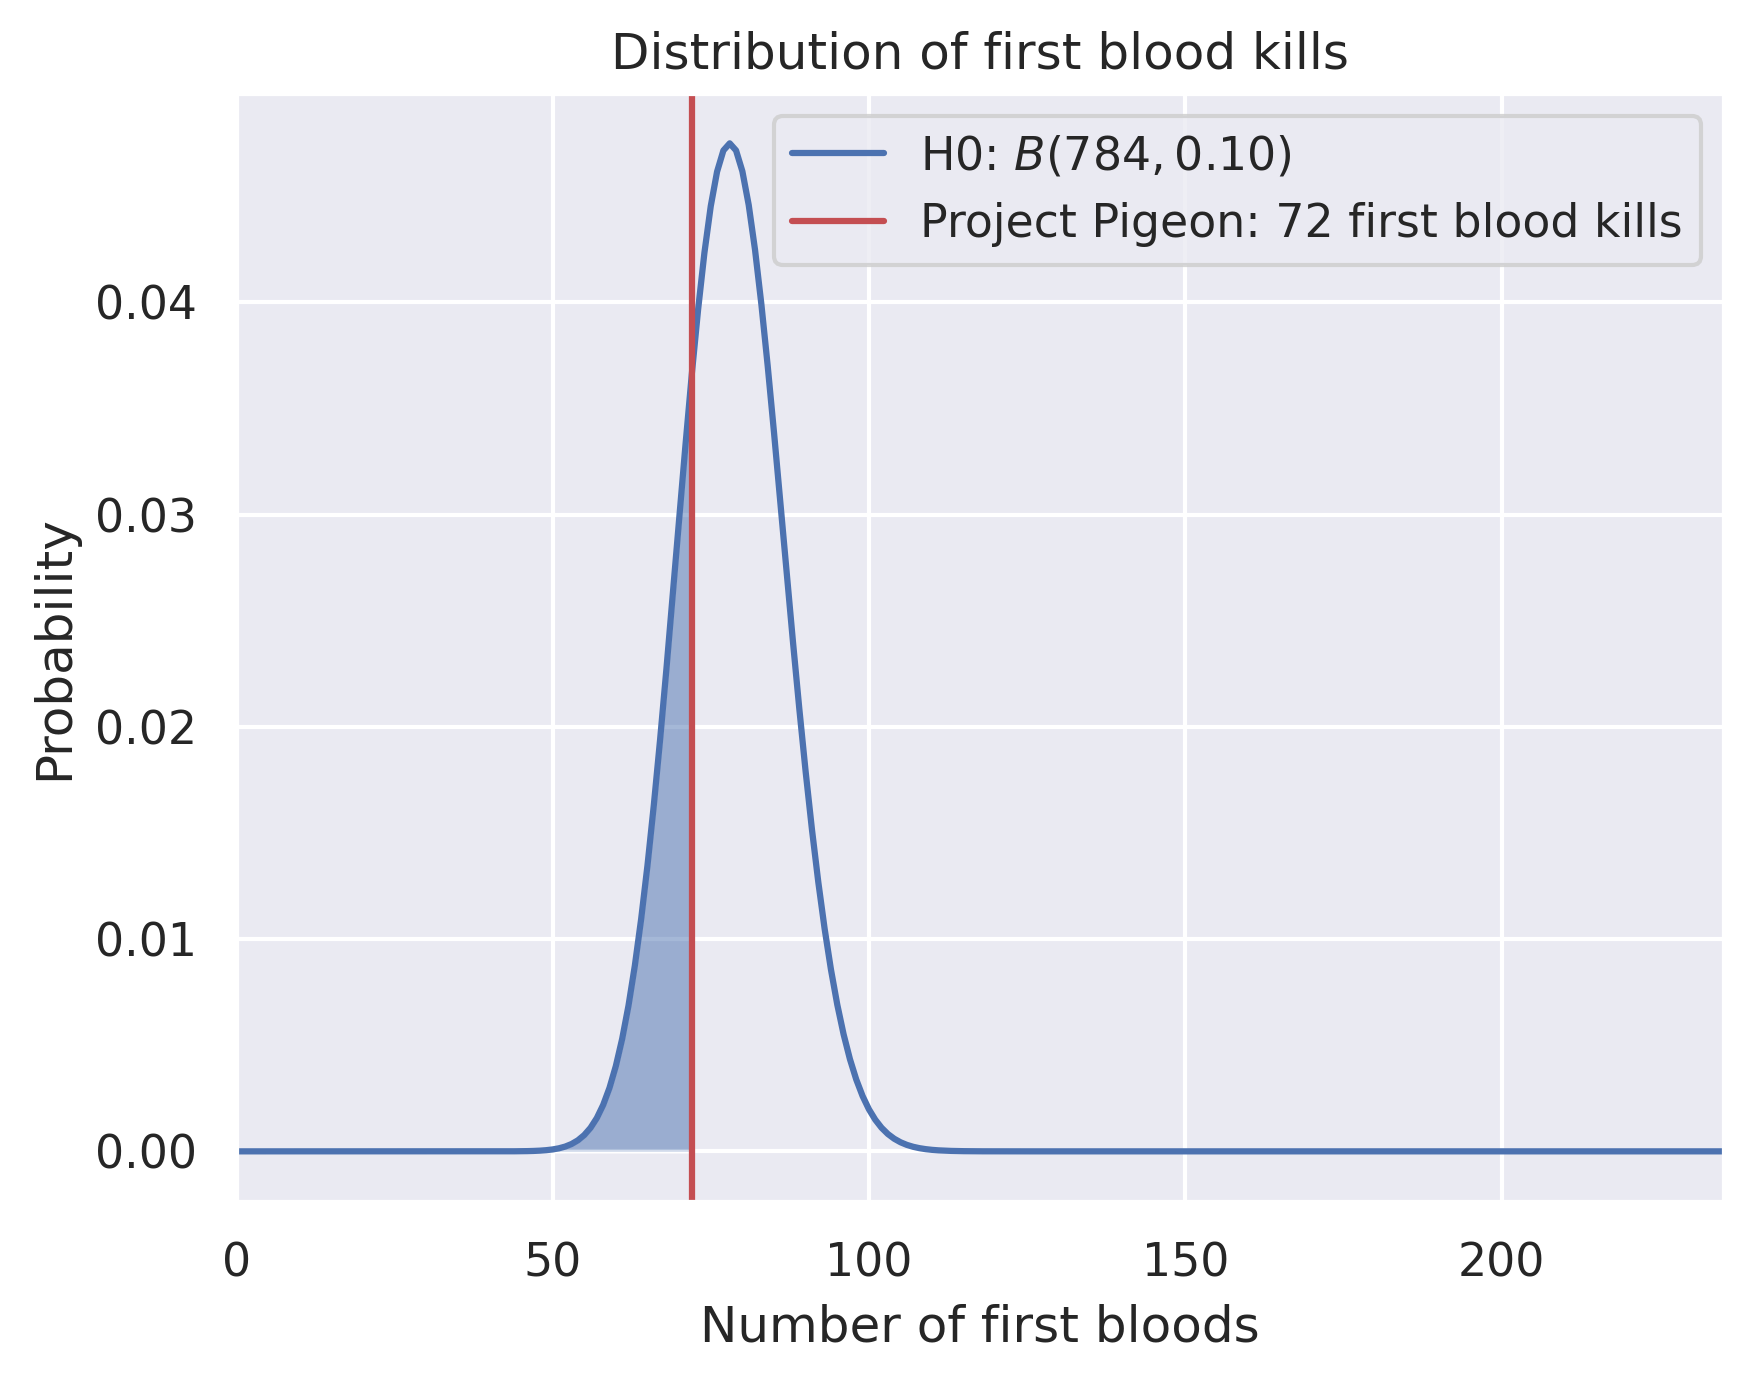
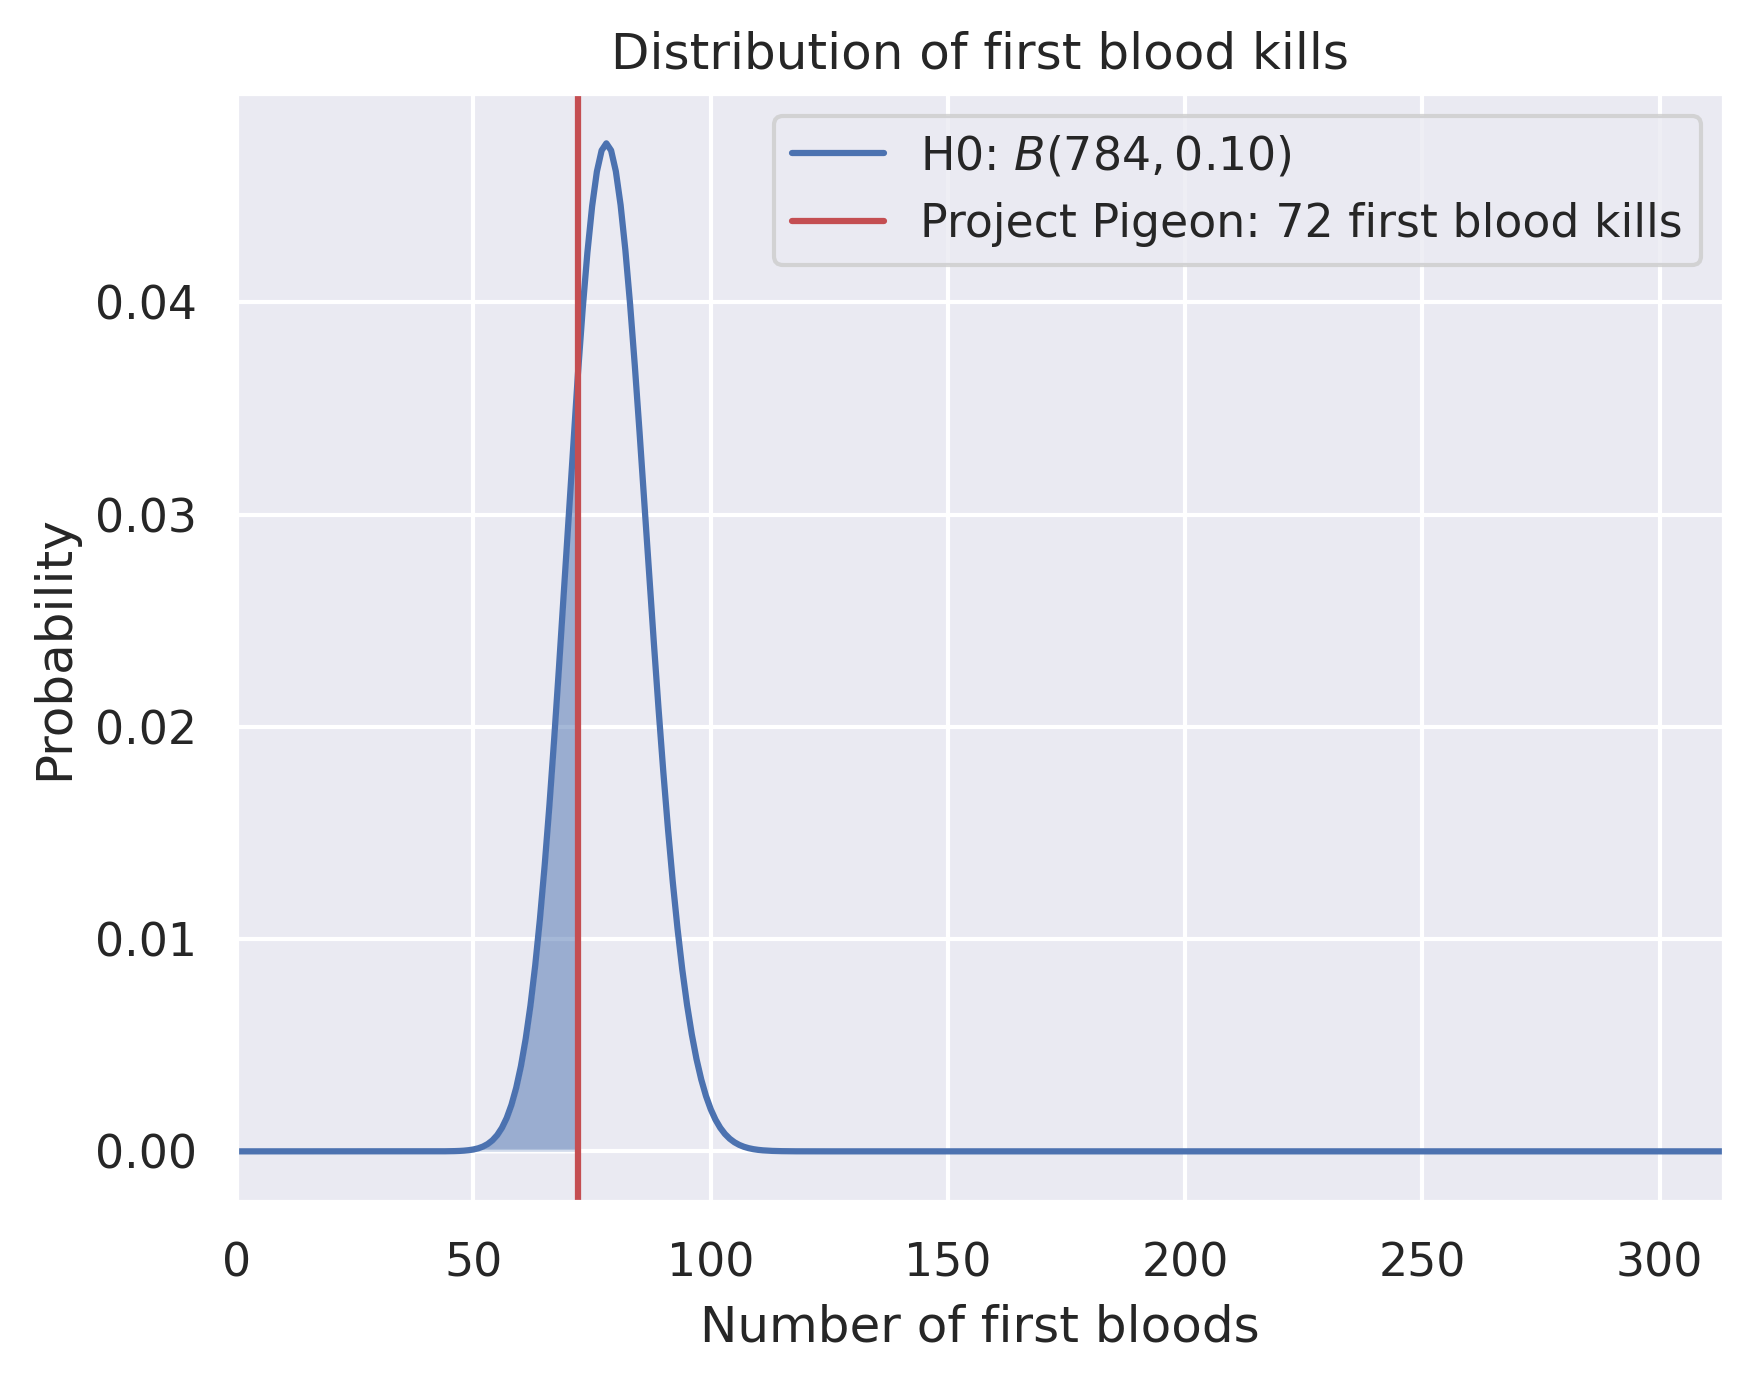
Nicer plots

diff --git a/scripts/generate_readme.py b/scripts/generate_readme.py
@@ -38,12 +38,13 @@ def main():
         else:
             readme += '**not first blood king :-(**\n\n'
         readme += (f"{summoner} has {summoner_data['n_first_bloods']:d} "
-                   f"first bloods in {summoner_data['n_matches']:d} games. "
+                   f"first bloods in {summoner_data['n_matches']:d} games (= "
+                   f"{summoner_data['first_blood_ratio'] * 100:.1f}%). "
                    f"Assuming a binomial distribution with parameters ``p = "
                    f"{metadata['p_binom']:.2f}`` and ``n = "
                    f"{summoner_data['n_matches']:d}`` as null hypothesis, "
                    f"the corresponding p value is ``p = "
-                   f"{summoner_data['p_value']:e}``.\n\n\n")
+                   f"{summoner_data['p_value']:.6f}``.\n\n\n")
 
     # Finalize
     now = datetime.datetime.utcnow().strftime("%Y-%m-%d %H:%M:%S")

diff --git a/scripts/analyze_data.py b/scripts/analyze_data.py
@@ -44,7 +44,7 @@ def plot_distribution(summoner, n_first_bloods, n_matches, p_value, config):
     plt.fill_between(x, 0.0, y, where=x <= n_first_bloods, alpha=0.5)
     plt.xlabel('Number of first bloods')
     plt.ylabel('Probability')
-    plt.xlim(0.0, 3.0 * PROB_BINOM * n_matches)
+    plt.xlim(0.0, 4.0 * PROB_BINOM * n_matches)
     plt.title("Distribution of first blood kills")
     plt.legend(loc='upper right')
 

diff --git a/README.md b/README.md
@@ -9,7 +9,7 @@ Captain KrümeI
 
 **not first blood king :-(**
 
-Captain KrümeI has 14 first bloods in 257 games. Assuming a binomial distribution with parameters ``p = 0.10`` and ``n = 257`` as null hypothesis, the corresponding p value is ``p = 9.968739e-01``.
+Captain KrümeI has 14 first bloods in 257 games (= 5.4%). Assuming a binomial distribution with parameters ``p = 0.10`` and ``n = 257`` as null hypothesis, the corresponding p value is ``p = 0.996874``.
 
 
 Demon4rK
@@ -19,7 +19,7 @@ Demon4rK
 
 **not first blood king :-(**
 
-Demon4rK has 59 first bloods in 720 games. Assuming a binomial distribution with parameters ``p = 0.10`` and ``n = 720`` as null hypothesis, the corresponding p value is ``p = 9.564178e-01``.
+Demon4rK has 59 first bloods in 720 games (= 8.2%). Assuming a binomial distribution with parameters ``p = 0.10`` and ``n = 720`` as null hypothesis, the corresponding p value is ``p = 0.956418``.
 
 
 F1rst Blood K1ng
@@ -29,7 +29,7 @@ F1rst Blood K1ng
 
 **FIRST BLOOD KING!!!**
 
-F1rst Blood K1ng has 234 first bloods in 1426 games. Assuming a binomial distribution with parameters ``p = 0.10`` and ``n = 1426`` as null hypothesis, the corresponding p value is ``p = 5.313239e-14``.
+F1rst Blood K1ng has 234 first bloods in 1426 games (= 16.4%). Assuming a binomial distribution with parameters ``p = 0.10`` and ``n = 1426`` as null hypothesis, the corresponding p value is ``p = 0.000000``.
 
 
 King Belau
@@ -39,7 +39,7 @@ King Belau
 
 **not first blood king :-(**
 
-King Belau has 75 first bloods in 975 games. Assuming a binomial distribution with parameters ``p = 0.10`` and ``n = 975`` as null hypothesis, the corresponding p value is ``p = 9.943964e-01``.
+King Belau has 75 first bloods in 975 games (= 7.7%). Assuming a binomial distribution with parameters ``p = 0.10`` and ``n = 975`` as null hypothesis, the corresponding p value is ``p = 0.994396``.
 
 
 Project Pigeon
@@ -49,7 +49,7 @@ Project Pigeon
 
 **not first blood king :-(**
 
-Project Pigeon has 72 first bloods in 784 games. Assuming a binomial distribution with parameters ``p = 0.10`` and ``n = 784`` as null hypothesis, the corresponding p value is ``p = 7.928528e-01``.
+Project Pigeon has 72 first bloods in 784 games (= 9.2%). Assuming a binomial distribution with parameters ``p = 0.10`` and ``n = 784`` as null hypothesis, the corresponding p value is ``p = 0.792853``.
 
 
 Tobbelwutz
@@ -59,7 +59,7 @@ Tobbelwutz
 
 **not first blood king :-(**
 
-Tobbelwutz has 20 first bloods in 346 games. Assuming a binomial distribution with parameters ``p = 0.10`` and ``n = 346`` as null hypothesis, the corresponding p value is ``p = 9.981243e-01``.
+Tobbelwutz has 20 first bloods in 346 games (= 5.8%). Assuming a binomial distribution with parameters ``p = 0.10`` and ``n = 346`` as null hypothesis, the corresponding p value is ``p = 0.998124``.
 
 
 Yolomichel
@@ -69,7 +69,7 @@ Yolomichel
 
 **not first blood king :-(**
 
-Yolomichel has 99 first bloods in 969 games. Assuming a binomial distribution with parameters ``p = 0.10`` and ``n = 969`` as null hypothesis, the corresponding p value is ``p = 4.265509e-01``.
+Yolomichel has 99 first bloods in 969 games (= 10.2%). Assuming a binomial distribution with parameters ``p = 0.10`` and ``n = 969`` as null hypothesis, the corresponding p value is ``p = 0.426551``.
 
 
 dergeraetx
@@ -79,7 +79,7 @@ dergeraetx
 
 **not first blood king :-(**
 
-dergeraetx has 16 first bloods in 378 games. Assuming a binomial distribution with parameters ``p = 0.10`` and ``n = 378`` as null hypothesis, the corresponding p value is ``p = 9.999899e-01``.
+dergeraetx has 16 first bloods in 378 games (= 4.2%). Assuming a binomial distribution with parameters ``p = 0.10`` and ``n = 378`` as null hypothesis, the corresponding p value is ``p = 0.999990``.
 
 
 kec4
@@ -89,7 +89,7 @@ kec4
 
 **not first blood king :-(**
 
-kec4 has 118 first bloods in 1063 games. Assuming a binomial distribution with parameters ``p = 0.10`` and ``n = 1063`` as null hypothesis, the corresponding p value is ``p = 1.268688e-01``.
+kec4 has 118 first bloods in 1063 games (= 11.1%). Assuming a binomial distribution with parameters ``p = 0.10`` and ``n = 1063`` as null hypothesis, the corresponding p value is ``p = 0.126869``.
 
 
-Last updated: 2020-03-26 16:55:04 UTC
+Last updated: 2020-03-26 17:01:56 UTC
